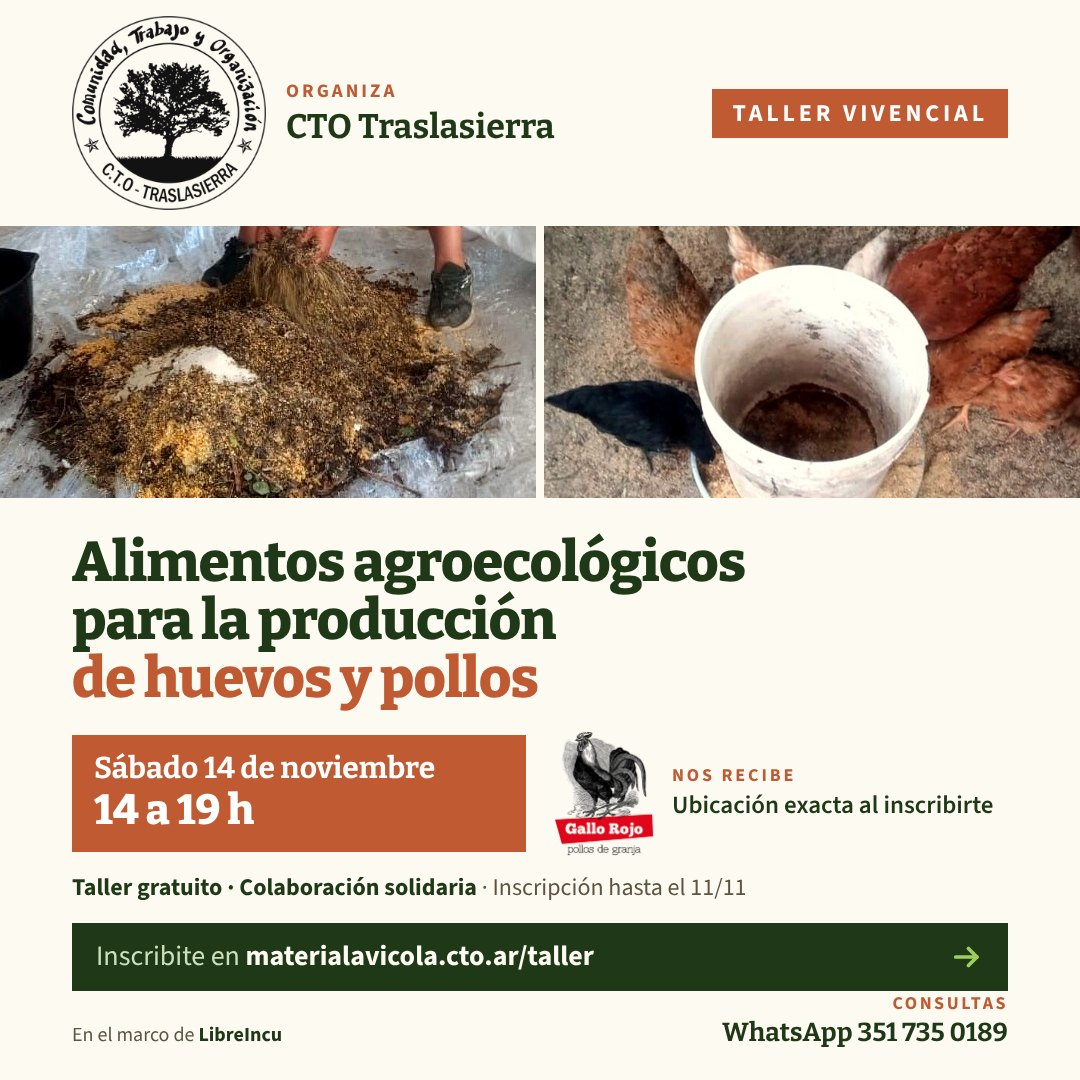
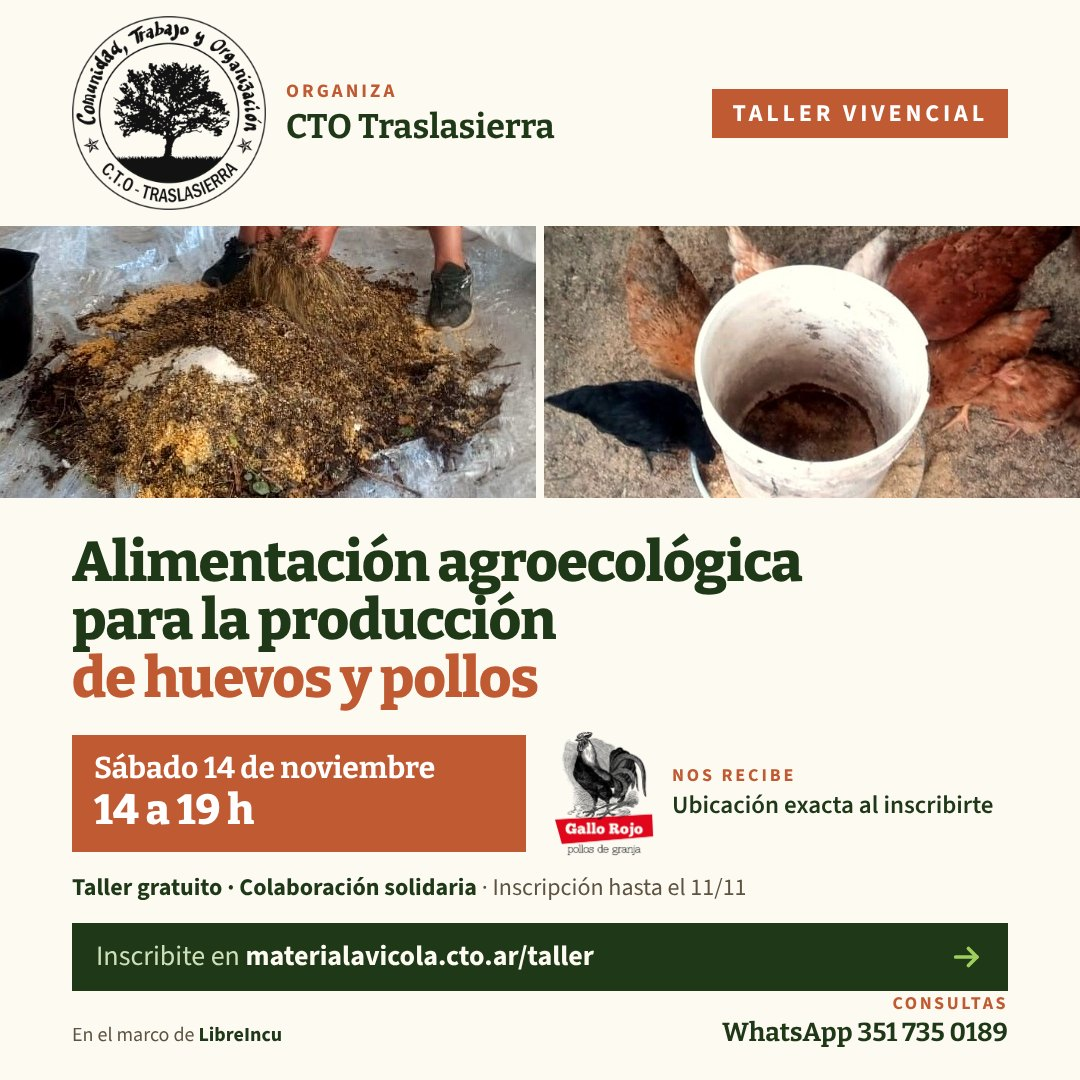
Título del taller: Alimentación agroecológica para la producción de huevos y pollos
Claude-Session: https://claude.ai/code/session_01XydKe418mFcSP4S41MbWgs

Changed region(s): [[0.275, 0.4889, 0.7639, 0.55]]

diff --git a/taller/index.html b/taller/index.html
@@ -3,11 +3,11 @@
 <head>
 <meta charset="utf-8">
 <meta name="viewport" content="width=device-width, initial-scale=1, viewport-fit=cover">
-<title>Taller vivencial: alimentos agroecológicos para la producción de huevos y pollos · CTO Traslasierra</title>
-<meta name="description" content="Sábado 14 de noviembre, de 14 a 19 h, en la Cooperativa Gallo Rojo. Taller vivencial sobre alimentos agroecológicos para la producción de huevos y pollos. Inscripción obligatoria con colaboración solidaria.">
+<title>Taller vivencial: alimentación agroecológica para la producción de huevos y pollos · CTO Traslasierra</title>
+<meta name="description" content="Sábado 14 de noviembre, de 14 a 19 h, en la Cooperativa Gallo Rojo. Taller vivencial sobre alimentación agroecológica para la producción de huevos y pollos. Inscripción obligatoria con colaboración solidaria.">
 <meta property="og:type" content="website">
 <meta property="og:url" content="https://materialavicola.cto.ar/taller/">
-<meta property="og:title" content="Taller vivencial: alimentos agroecológicos para la producción de huevos y pollos">
+<meta property="og:title" content="Taller vivencial: alimentación agroecológica para la producción de huevos y pollos">
 <meta property="og:description" content="Sábado 14 de noviembre · 14 a 19 h · Cooperativa Gallo Rojo. Inscripción obligatoria hasta el miércoles 11/11, colaboración solidaria.">
 <meta property="og:image" content="https://materialavicola.cto.ar/taller/og-taller.jpg">
 <meta property="og:image:width" content="1200">
@@ -15,7 +15,7 @@
 <meta property="og:site_name" content="CTO Traslasierra">
 <meta property="og:locale" content="es_AR">
 <meta name="twitter:card" content="summary_large_image">
-<meta name="twitter:title" content="Taller vivencial: alimentos agroecológicos para la producción de huevos y pollos">
+<meta name="twitter:title" content="Taller vivencial: alimentación agroecológica para la producción de huevos y pollos">
 <meta name="twitter:description" content="Sábado 14 de noviembre · 14 a 19 h · Cooperativa Gallo Rojo. Inscripción obligatoria, colaboración solidaria.">
 <meta name="twitter:image" content="https://materialavicola.cto.ar/taller/og-taller.jpg">
 <link rel="canonical" href="https://materialavicola.cto.ar/taller/">
@@ -126,13 +126,13 @@ footer .flecha{color:#9fce5f;font-size:.85em;margin-left:1px}
   </nav>
 
   <header class="flyer">
-    <img src="flyer-taller.jpg" width="1080" height="1080" alt="Flyer del taller vivencial Alimentos agroecológicos para la producción de huevos y pollos. Organiza CTO Traslasierra. Sábado 14 de noviembre de 14 a 19 h. Nos recibe la Cooperativa Gallo Rojo. Inscripción obligatoria hasta el 11/11, colaboración solidaria.">
+    <img src="flyer-taller.jpg" width="1080" height="1080" alt="Flyer del taller vivencial Alimentación agroecológica para la producción de huevos y pollos. Organiza CTO Traslasierra. Sábado 14 de noviembre de 14 a 19 h. Nos recibe la Cooperativa Gallo Rojo. Inscripción obligatoria hasta el 11/11, colaboración solidaria.">
   </header>
 
   <section aria-labelledby="taller-t">
     <div class="col">
       <p class="etiqueta">Taller vivencial · LibreIncu</p>
-      <h1 id="taller-t">Alimentos agroecológicos para la producción de huevos y pollos</h1>
+      <h1 id="taller-t">Alimentación agroecológica para la producción de huevos y pollos</h1>
       <p class="texto">La producción de pollos y huevos de la agricultura familiar, campesina e indígena enfrenta una triple dependencia del modelo agroindustrial. Genética: el pollito híbrido viene del exterior. Alimentaria: las dietas dependen de núcleos vitamínicos y minerales industriales y de antibióticos preventivos. Tecnológica: las incubadoras comerciales son caras o están pensadas para hobbistas. Trabajamos los tres frentes a la vez.</p>
       <p class="texto">Este taller vivencial se mete en el frente del alimento. Compartimos cómo hacemos el alimento de elaboración propia para ponedoras y pollos, sin núcleo industrial ni antibióticos, armamos dietas específicas para cada etapa y producción, y preparamos juntos el concentrado mineral. También vemos qué mirar en las aves para saber si la dieta funciona. Te llevás la receta y la cartilla en PDF.</p>
       <dl class="datos">
@@ -179,7 +179,7 @@ footer .flecha{color:#9fce5f;font-size:.85em;margin-left:1px}
       <div class="formulario">
         <div class="encabezado">
           <img src="../assets/logo-white.png" alt="">
-          <p>Taller vivencial: alimentos agroecológicos<small>Sábado 14 de noviembre · 14 a 19 h · Cooperativa Gallo Rojo</small></p>
+          <p>Taller vivencial: alimentación agroecológica<small>Sábado 14 de noviembre · 14 a 19 h · Cooperativa Gallo Rojo</small></p>
         </div>
 
         <form id="form-inscripcion" class="campos" novalidate>
@@ -291,7 +291,7 @@ footer .flecha{color:#9fce5f;font-size:.85em;margin-left:1px}
     <div class="col">
       <div class="marca">
         <img src="../assets/logo-white.png" alt="Logo CTO Traslasierra">
-        <p>Taller vivencial: alimentos agroecológicos para la producción de huevos y pollos</p>
+        <p>Taller vivencial: alimentación agroecológica para la producción de huevos y pollos</p>
       </div>
       <p>Organiza <strong><a href="https://cto.ar/" target="_blank" rel="noopener">CTO Traslasierra<span class="flecha" aria-hidden="true">↗</span></a></strong> · En el marco de <strong><a href="https://libreincu.altermundi.net/" target="_blank" rel="noopener">LibreIncu<span class="flecha" aria-hidden="true">↗</span></a></strong> · Con el apoyo de <strong><a href="https://agroecologyfund.org/" target="_blank" rel="noopener">Agroecology Fund<span class="flecha" aria-hidden="true">↗</span></a></strong></p>
       <p>Consultas: <a href="https://wa.me/5493517350189" target="_blank" rel="noopener">WhatsApp 351 735 0189</a> · <a href="mailto:ctotraslasierra@gmail.com">ctotraslasierra@gmail.com</a></p>
@@ -306,7 +306,7 @@ footer .flecha{color:#9fce5f;font-size:.85em;margin-left:1px}
   // la planilla de CTO. Este formulario usa el tipo "inscripcion", que va a su
   // propia hoja. Despliegue y columnas: ../apps-script/README.md
   var ENDPOINT = 'https://script.google.com/macros/s/AKfycbwu8IOqidH5s2Aa7pHjACcD2fZhy69l8sNCcKB-1bpNXj3h8qcvbAwbLD0J8M0Zedr23A/exec';
-  var EVENTO = 'Taller vivencial alimentos agroecológicos · 14/11/2026 · Cooperativa Gallo Rojo';
+  var EVENTO = 'Taller vivencial alimentación agroecológica · 14/11/2026 · Cooperativa Gallo Rojo';
   // Cierre: fin del miércoles 11 de noviembre, hora de Córdoba.
   var CIERRE = new Date('2026-11-12T00:00:00-03:00');
 
